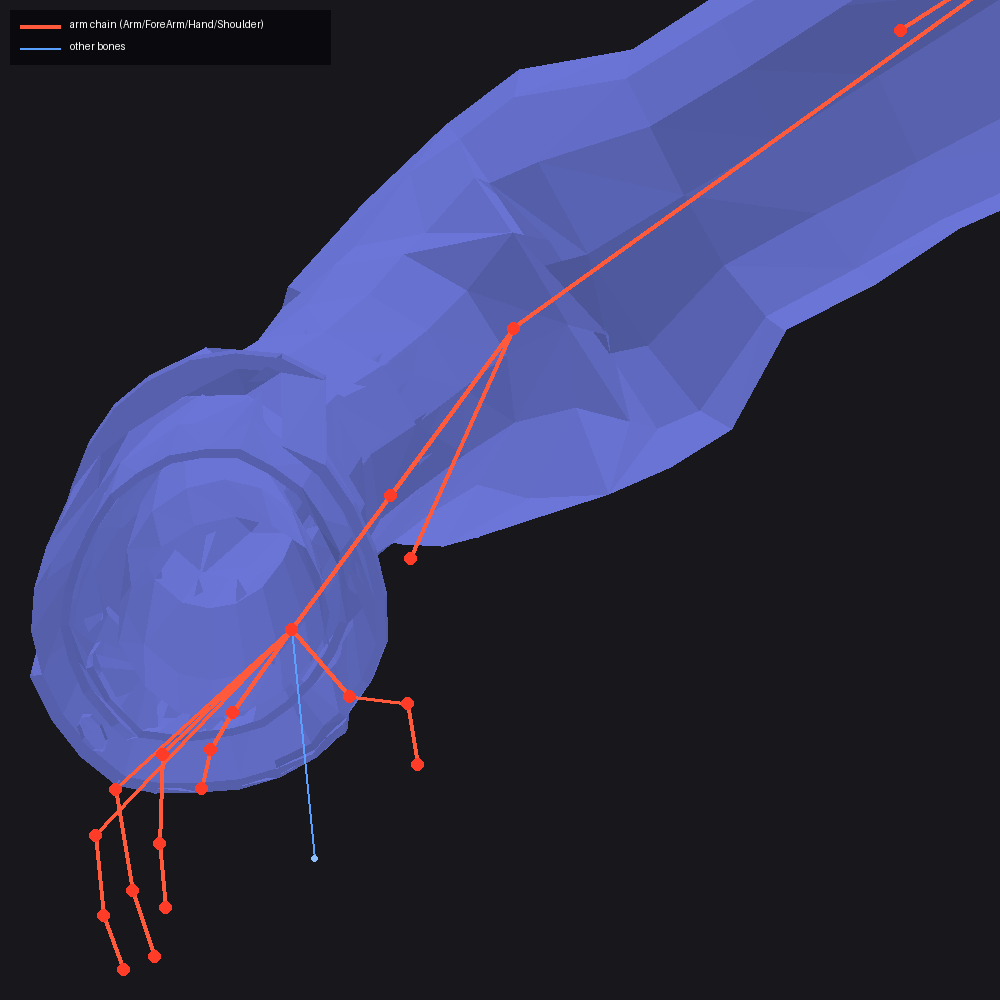
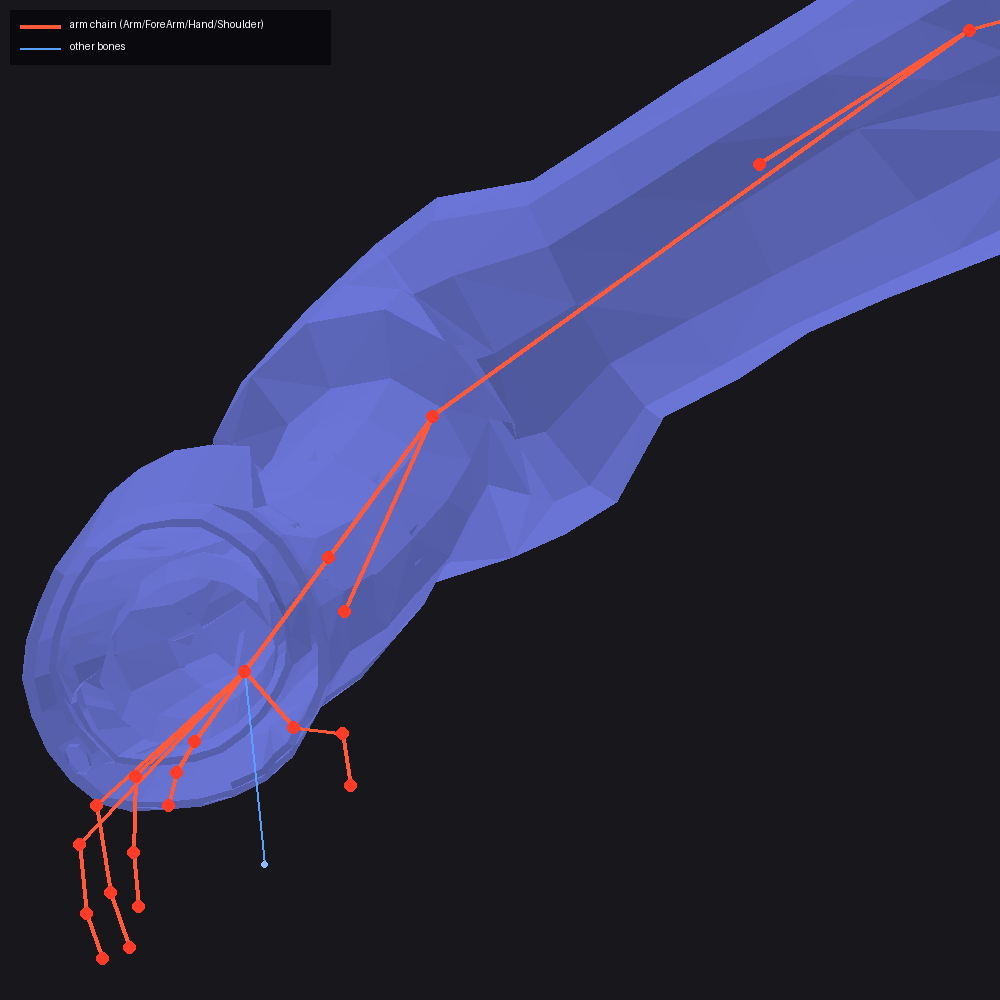
Christie LAS: make the render set reproducible, drop the hand-renamed one-offs
Reviewing the committed renders turned up files the renderer could not
produce. The CLI wrote `*_skel_{front,side,iso,top}` only, while
CHRISTIE.md told the reader to look at `christie_base_skel_top.png`,
`christie_skel_bottom.png` and `christie_{base,slim}_forearm_*` - none of
which any code path emitted. Those images were hand-made one-offs, so a
reader regenerating the set silently got a different picture than the one
the doc described (`christie_base_skel_top` was even a stale duplicate of the
top view, 3.3 mean pixel difference from the real thing).

The wrist close-ups for the base pack were also never re-rendered after the
templates moved: they still showed the pre-fit cuff.

- `main()` now writes `bottom` for every pack, and the forearm close-up
  framed on the `LeftForeArm` pivot (the same rule `--source` uses), so one
  invocation per pack rebuilds the whole set.
- Regenerated everything for both packs, deleted the five one-offs whose
  names no longer exist.
- Rewrote the render section of CHRISTIE.md: the actual filenames, the command
  that reproduces them, and what `top` vs `bottom` is good for (radial limb
  offset, not left/right).
- New test: every `christie*.png` the doc names must match a pattern `main()`
  (or `--source`) can emit. It fails on the pre-fix set.

Also verified the skeleton really is inside the mesh in the close-ups that
looked wrong: every finger joint is within 1.5 cm of a mesh face, and only
[…]

Changed region(s): [[0.0, 0.0, 1.0, 0.992], [0.186, 0.589, 0.248, 0.62]]

diff --git a/tests/test_render_mesh_skeleton.py b/tests/test_render_mesh_skeleton.py
@@ -152,3 +152,87 @@ def test_bind_matrices_are_inverse_bind_worlds():
         assert np.abs(w @ r - ident).max() < 1e-3, (
             f"{tpl.id_name[bid]}: rotations[{k}] is not the inverse bind world")
         assert dm.mat_mul(tuple(r.flatten()), tuple(w.flatten())) is not None
+
+
+def _documented_render_names(item: str) -> set[str]:
+    """The render filenames CHRISTIE.md tells a reader to look at.
+
+    The doc is the only place a reader learns which images exist, so it is also
+    the list the renderer has to be able to produce. Reading it here keeps the
+    two from drifting: before 2026-11-06 the doc named
+    `christie_base_skel_top.png`, the renderer wrote `christie_skel_top.png`,
+    and half the committed set could not be rebuilt at all.
+    """
+    import re
+
+    doc = (REPO / "docs" / "pd2-las" / "CHRISTIE.md").read_text(encoding="utf-8")
+    section = doc.split("## Mesh + skeleton renders", 1)[1].split("\n## ", 1)[0]
+    names: set[str] = set()
+    for m in re.finditer(r"`([a-z0-9_{},*]+\.png)`", section):
+        pat = m.group(1)
+        # expand the {a,b} shorthand the doc uses
+        parts = [pat]
+        while any("{" in p for p in parts):
+            nxt = []
+            for p in parts:
+                b = re.search(r"\{([^}]*)\}", p)
+                if not b:
+                    nxt.append(p)
+                    continue
+                nxt.extend(p[:b.start()] + opt + p[b.end():]
+                           for opt in b.group(1).split(","))
+            parts = nxt
+        names.update(n.replace("*", "slim" if "slim" in n else "base")
+                     for n in parts)
+    return names
+
+
+def test_render_cli_writes_every_file_the_docs_name():
+    """A doc that names images the tool cannot produce is a dead end."""
+    import re
+
+    doc = (REPO / "docs" / "pd2-las" / "CHRISTIE.md").read_text(encoding="utf-8")
+    section = doc.split("## Mesh + skeleton renders", 1)[1].split("\n## ", 1)[0]
+    # the two composites are made outside the renderer and are called out as such
+    documented = set()
+    for m in re.finditer(r"`(christie[a-z_{},]*\.png)`", section):
+        pat = m.group(1)
+        if "fit_before_after" in pat:
+            continue
+        parts = [pat]
+        while any("{" in q for q in parts):
+            nxt = []
+            for q in parts:
+                b = re.search(r"\{([^}]*)\}", q)
+                if b is None:
+                    nxt.append(q)
+                    continue
+                nxt.extend(q[:b.start()] + opt + q[b.end():]
+                           for opt in b.group(1).split(","))
+            parts = nxt
+        documented.update(parts)
+    assert len(documented) >= 14, f"the render list shrank: {sorted(documented)}"
+
+    src = (REPO / "tools" / "pd2-las" / "render_mesh_skeleton.py").read_text(encoding="utf-8")
+    # `--source` renders the reference model under its own stem; fold those
+    # patterns in too so the doc can list both kinds in one section
+    src_body = src[src.index("def render_source("):src.index("def main(")]
+    main_body = src[src.index("def main("):]
+    for m in re.finditer(r'f"\{stem\}_([a-z_{}]+)\.png"', src_body):
+        main_body += "\n" + f'f"{{stem}}_source_{m.group(1)}.png"' 
+    emitted = set()
+    for m in re.finditer(r'f"\{stem\}_([a-z_{}]+)\.png"', main_body):
+        pat = "{stem}_" + m.group(1) + ".png"
+        viewers = ["front", "side", "iso", "top", "bottom"] if "{view}" in pat else [None]
+        for v in viewers:
+            emitted.add(pat if v is None else pat.replace("{view}", v))
+    assert emitted, "main() emits no per-stem renders at all"
+
+    missing = []
+    for name in sorted(documented):
+        body = name.replace("christie_slim", "{stem}").replace("christie", "{stem}")
+        if body not in emitted:
+            missing.append(name)
+    assert not missing, (
+        "documented in CHRISTIE.md but never written by the renderer: "
+        f"{missing} (main() emits {sorted(emitted)})")

diff --git a/tools/pd2-las/render_mesh_skeleton.py b/tools/pd2-las/render_mesh_skeleton.py
@@ -332,12 +332,23 @@ def main(argv=None) -> int:
     bones = skeleton(template)
     args.out.mkdir(parents=True, exist_ok=True)
     stem = args.item
-    for view in ("front", "side", "iso", "top"):
+    # every view is rendered so the committed set is fully reproducible from
+    # this CLI - docs/pd2-las/CHRISTIE.md names these files explicitly
+    for view in ("front", "side", "iso", "top", "bottom"):
         render(geo, bones, view, args.out / f"{stem}_skel_{view}.png")
     # wrist close-ups (left arm, x negative)
     for view in ("front", "side"):
         render(geo, bones, view, args.out / f"{stem}_skel_wrist_{view}.png",
                zoom=(-56, -30, 108, 142))
+    # forearm close-up framed on the LeftForeArm pivot, the same rule --source
+    # uses, so a pack render and a source render line up for comparison
+    fw = next((b for b in bones if b[0] == "LeftForeArm"), None)
+    if fw is not None:
+        c = fw[1]
+        zoom = (c[0] - 14, c[0] + 14, c[2] - 22, c[2] + 10)
+        for view in ("front", "side"):
+            render(geo, bones, view, args.out / f"{stem}_forearm_{view}.png",
+                   zoom=zoom)
     if args.pose:
         pose = {}
         for side in ("Left", "Right"):

diff --git a/docs/pd2-las/CHRISTIE.md b/docs/pd2-las/CHRISTIE.md
@@ -130,23 +130,45 @@ Registration: `LegendaryArmours.christie`, `...christie_no_hands`,
 mesh with the PD2 skeleton overlaid (arm chain in red), produced by
 `tools/pd2-las/render_mesh_skeleton.py`:
 
-- `christie_slim_skel_{front,side,iso}.png` — slim pack, full body
-- `christie_slim_skel_wrist_{front,side}.png` — left-wrist close-ups (the
-  sleeve cuff surrounds the Hand pivot where the in-game glove spawns)
-- `christie_skel_front.png`, `christie_skel_wrist_side.png` — base pack
+Both packs are named after the pack: `christie_*` is the base pack, and
+`christie_slim_*` is the slim one. Every file below comes out of the same
+command, so the whole set is reproducible in one run per pack:
+
+```bash
+.venv/bin/python tools/pd2-las/render_mesh_skeleton.py \
+    --zip dist/Christie_LAS.zip --pack Christie_LAS --item christie \
+    --templates "<2B>/assets/units/2b/skins/2b" \
+    --out docs/pd2-las/renders --pose          # add --Slim for the slim pack
+```
+
+- `christie_skel_{front,side,iso,top,bottom}.png` — full body from five
+  directions. `top` and `bottom` are where a limb tube's offset from its bone
+  is obvious at a glance: `top` looks down the body axis (hands end up by the
+  ears in screen space), `bottom` looks up the axis and reads like the front
+  view with the depth order reversed. Use `top`/`bottom` to see the *radial*
+  offset of a limb in cross-section, not to judge left/right.
+- `christie_skel_wrist_{front,side}.png` — left-wrist close-ups (the sleeve cuff
+  surrounds the `Hand` pivot where the in-game glove spawns)
+- `christie_forearm_{front,side}.png` — left forearm on the `LeftForeArm` pivot,
+  framed with the same rule as the `--source` renders so a pack and a source
+  image line up side by side
 - `christie_source_{front,side,iso,forearm_front,forearm_side}.png` — the
   ORIGINAL DOA5 model from `references/Christie.zip` with its own skeleton
   (`--source` mode of the renderer), as the reference for comparisons
-- `christie_{base,slim}_forearm_{front,side}.png` — forearm close-ups of both
-  packs in PD2 space, directly comparable to the source forearm renders
 - `christie_{base,slim}_fit_before_after.png` — left forearm/wrist, the pack as
   shipped before 2026-11-06 (bone along the top edge of the sleeve, cuff off the
-  `Hand` pivot) next to the re-centred build
-- `christie_skel_top.png` — the overhead view that makes a limb tube's offset
-  from its bone obvious at a glance (the arm chain is drawn in red)
+  `Hand` pivot) next to the re-centred build. Generated by
+  `/home/user/work/before_after.py`-style two-crop composites, not by the
+  renderer, so it is the only pair here the command above does not refresh.
 - `christie_skel_pose_{front,side}.png`, `christie_skel_pose_wrist_*.png` (and
   the `slim` pair) — the mesh re-skinned into a relaxed pose with the posed
   skeleton drawn on top; regenerate with `--pose`
+
+Until 2026-11-06 this list named files that never existed (`*_skel_wrist_side`
+with no base-pack prefix, `christie_base_skel_top`) and the renderer never wrote
+`bottom` or the pack `forearm` views at all, so the committed images were
+hand-renamed one-offs and could not be rebuilt. The CLI now writes the whole
+set, and `tests/test_render_mesh_skeleton.py` keeps the naming honest.
 
 ## Mesh-vs-skeleton fit
 
